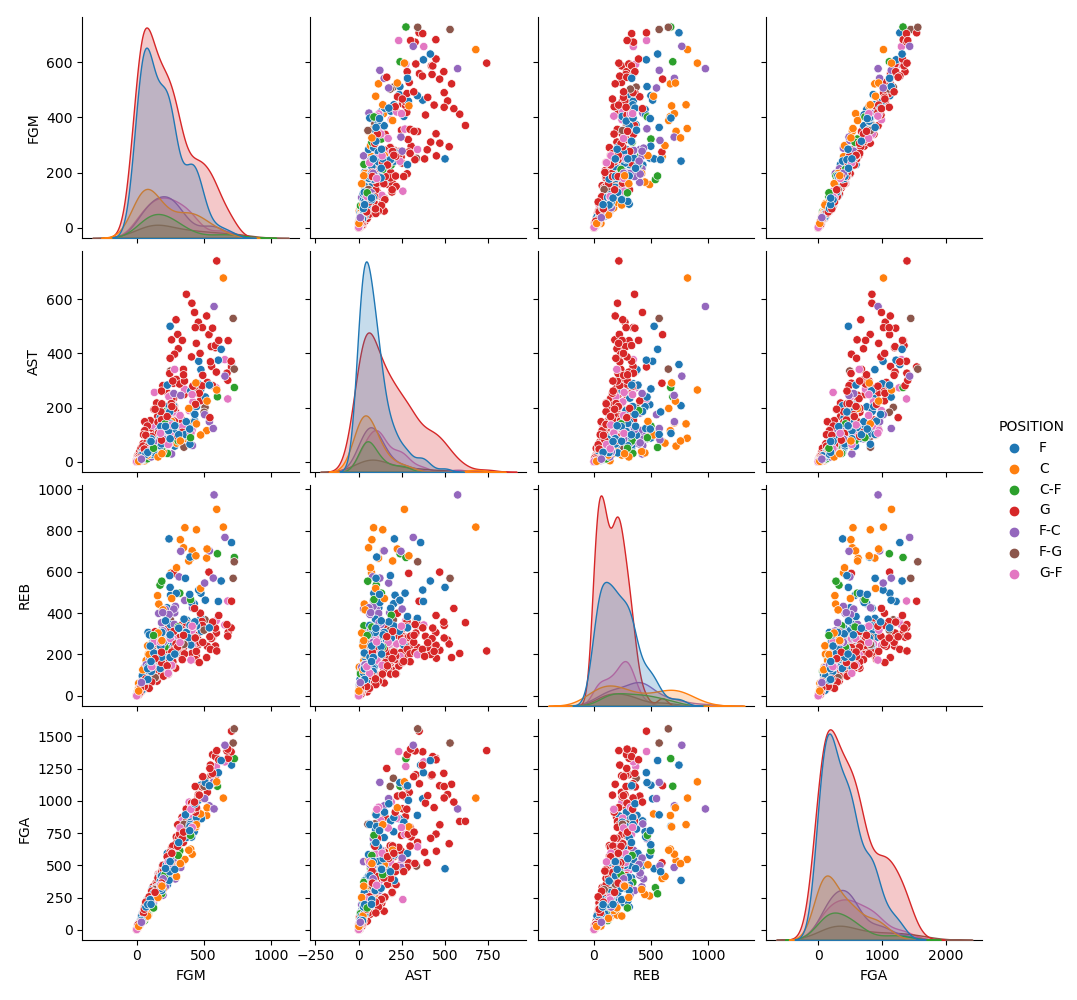
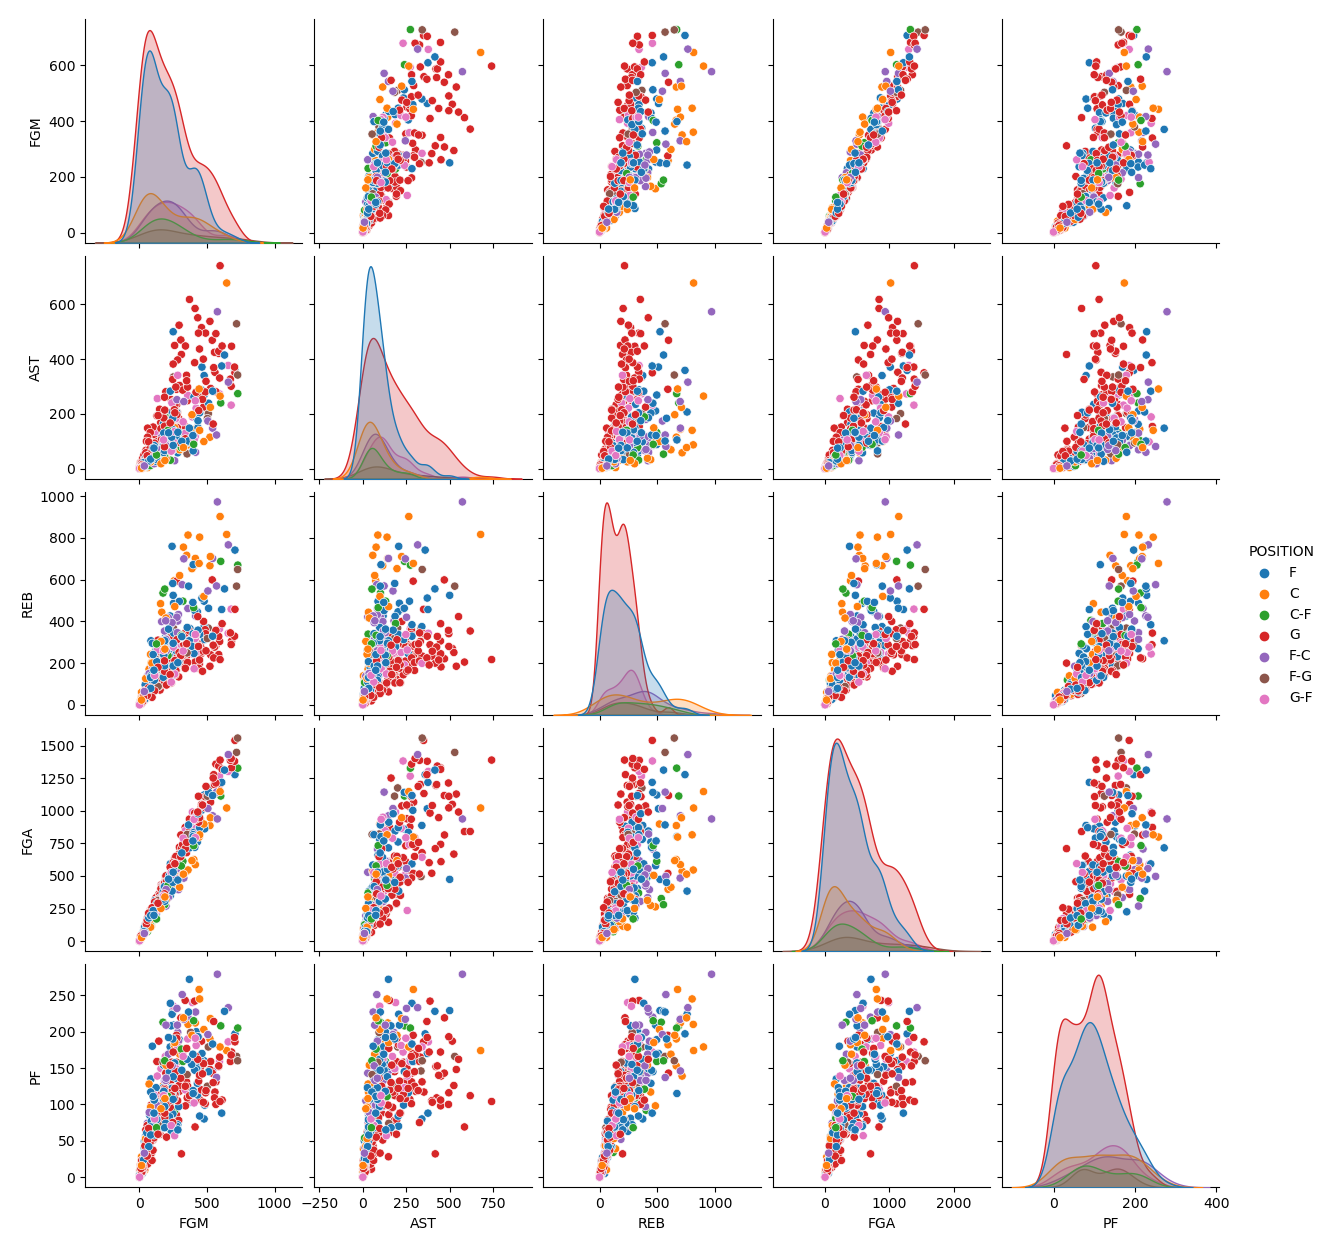
personal fouls

diff --git a/analysis/personal_fouls.py b/analysis/personal_fouls.py
@@ -24,7 +24,7 @@ if __name__ == '__main__':
 
     print('uwu ?')
 
-    reduced_df = df[["FP", "FGM", "AST", "REB", "FGA", "POSITION"]]
+    reduced_df = df[["FGM", "AST", "REB", "FGA", "PF", "POSITION"]]
 
     dataset = create_players_dataset()
 
